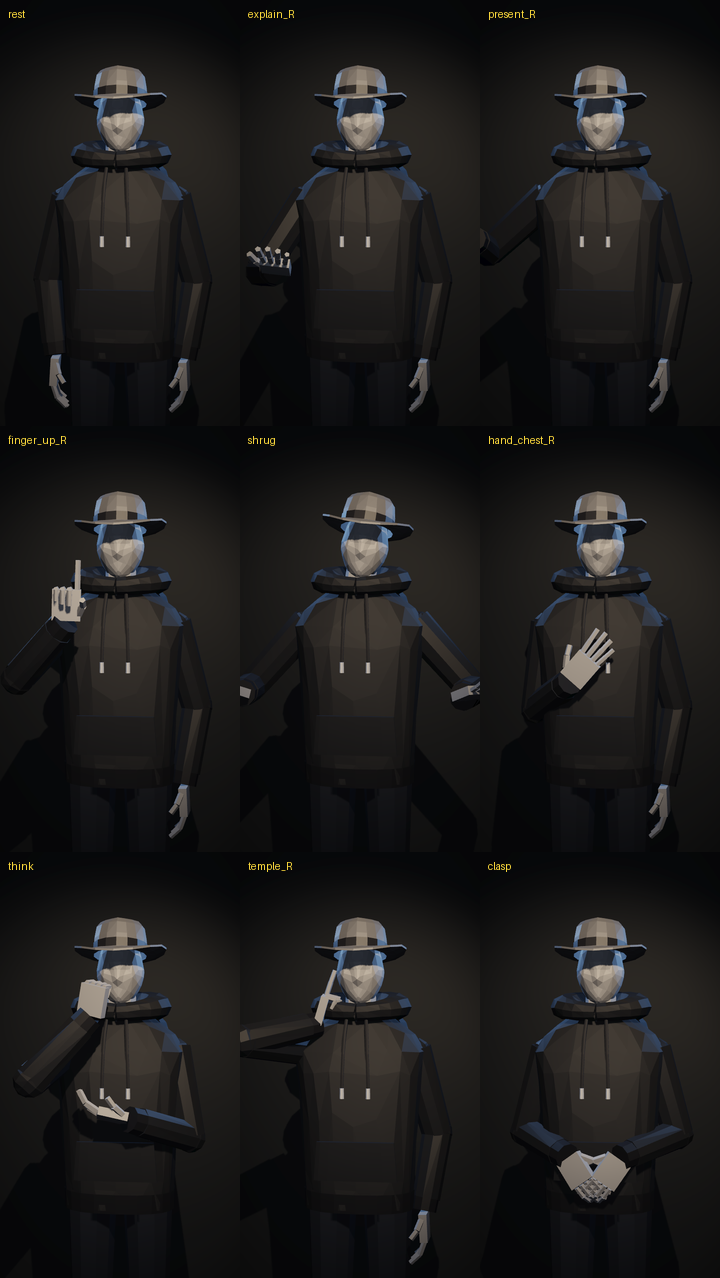
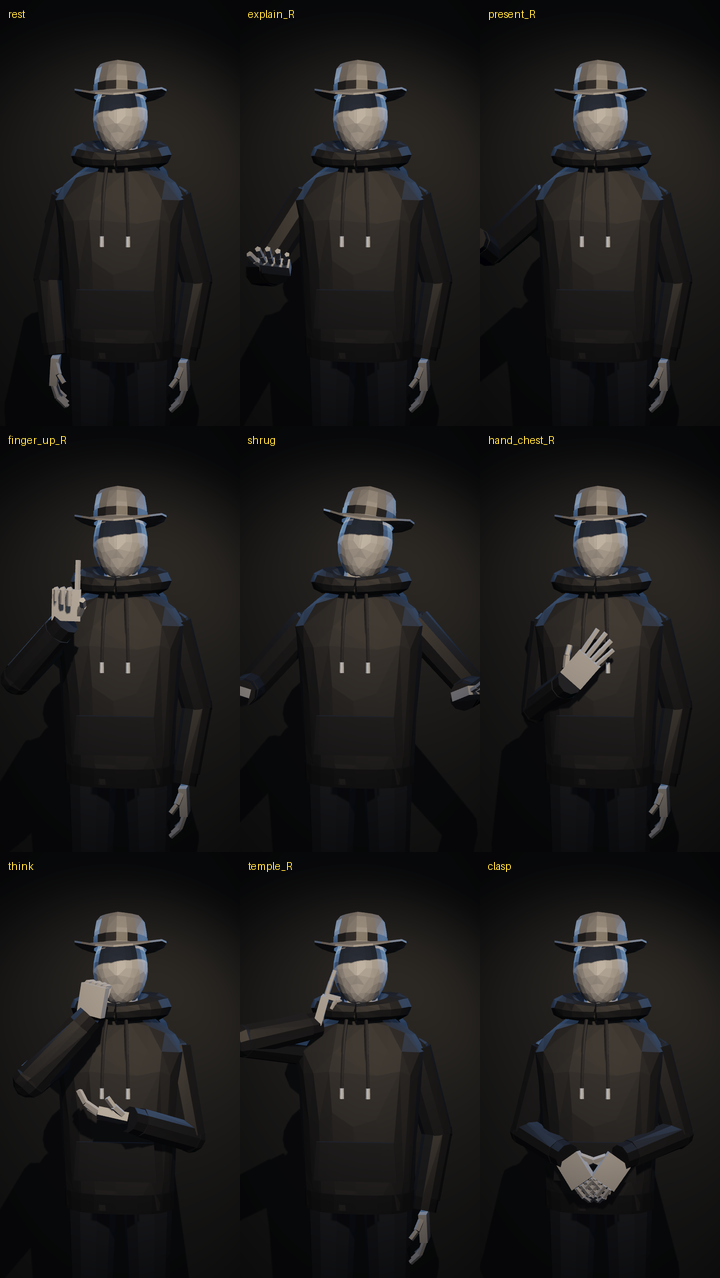
hooded-man: bigger, calmer face; front light on his face
GJ's notes: the face looked really small, and angry.
- Head 15% bigger (17.6 cm wide), fuller jaw, plain face with a soft nose
  ridge; removed the eye-socket dents and brow ridge, which rendered as
  dark slanted facets that read as a frown. Hat sits higher, less tilt.
- dead-internet-theory: FACE_KEY, a narrow front spot that lights his face
  under the brim; thumbnails re-shot from the episode's angle.
- Previews redrawn; repo rebuild verified (assets identical, who/debunk
  scenes byte-identical to the delivered ones).

Claude-Session: https://claude.ai/code/session_01XgkZbj7ikTSTMJv7mLdgiD

diff --git a/kids-songs/hooded-man/build_man.py b/kids-songs/hooded-man/build_man.py
@@ -15,42 +15,33 @@ from rig import HIPS, HEAD, SHOULDER, UPPER, FORE, COLORS, HAND_POSES
 
 # ------------------------------------------------------------------ settings
 HEAD_RES = (52, 30)          # UV-sphere resolution before decimation
-HEAD_RATIO = 0.13            # decimate ratio (about 400 faces)
-SKULL_C = np.array([0.0, 0.004, 0.096])     # skull centre in head-local coords
-SKULL_R = np.array([0.077, 0.097, 0.117])   # half sizes x (width), y (depth), z (height)
-HAT_TILT = math.radians(-7)  # forward tilt of the hat (about X)
-HAT_BASE = np.array([0.0, -0.004, 0.152])
+HEAD_RATIO = 0.17            # decimate ratio (about 520 faces)
+SKULL_C = np.array([0.0, 0.004, 0.104])     # skull centre in head-local coords
+SKULL_R = np.array([0.088, 0.104, 0.126])   # half sizes x (width), y (depth), z (height)
+HAT_TILT = math.radians(-4)  # forward tilt of the hat (about X)
+HAT_BASE = np.array([0.0, -0.002, 0.172])
 TORSO_RATIO = 0.55
 
 
 def head_mesh():
+    """A calm mannequin head: egg-shaped skull, flat broad face, soft nose ridge, small chin. No brow ridge or eye
+    sockets (they rendered as dark slanted facets that read as an angry frown)."""
     s = uvsphere(*HEAD_RES)
     d = s.v / np.linalg.norm(s.v, axis=1, keepdims=True)
     x, y, z = d.T
     X, Y, Z = x * SKULL_R[0], y * SKULL_R[1], z * SKULL_R[2]
     lo = np.clip(-z, 0, 1)
-    X = X * (1 - 0.30 * lo ** 1.6)
-    Y = np.where(y > 0, Y * (1 - 0.40 * lo ** 1.4), Y * (1 - 0.10 * lo))
+    X = X * (1 - 0.17 * lo ** 1.8)
+    Y = np.where(y > 0, Y * (1 - 0.32 * lo ** 1.4), Y * (1 - 0.06 * lo))
     Y = np.where(y < 0, Y * 0.90, Y)
     front = np.clip(-y, 0, 1)
-    chin = np.exp(-(x / 0.30) ** 2 - ((z + 0.80) / 0.16) ** 2) * front
-    Y = Y - 0.010 * chin
-    t = np.clip((0.10 - z) / 0.40, 0, 1)
-    below = np.clip((-0.30 - z) / 0.07, 0, 1)
-    prof = t ** 1.3 * (1 - below) ** 2
-    nose = prof * np.exp(-(x / (0.13 + 0.07 * t)) ** 2) * front ** 4
-    Y = Y - 0.017 * nose
-    brow = np.exp(-((z - 0.17) / 0.09) ** 2) * np.exp(-(x / 0.55) ** 2) * front ** 3
-    Y = Y - 0.007 * brow
-    for sx in (-1, 1):
-        eye = np.exp(-((x - sx * 0.33) / 0.15) ** 2 - ((z - 0.03) / 0.10) ** 2) * front ** 2
-        Y = Y + 0.010 * eye
-        cheek = np.exp(-((x - sx * 0.60) / 0.17) ** 2 - ((z + 0.16) / 0.15) ** 2) * front
-        X = X + sx * 0.004 * cheek; Y = Y - 0.004 * cheek
-        temple = np.exp(-((x - sx * 0.85) / 0.15) ** 2 - ((z - 0.25) / 0.2) ** 2)
-        X = X - sx * 0.004 * temple
-    mouth = np.exp(-(x / 0.25) ** 2 - ((z + 0.50) / 0.07) ** 2) * front ** 4
-    Y = Y + 0.004 * mouth
+    chin = np.exp(-(x / 0.35) ** 2 - ((z + 0.80) / 0.18) ** 2) * front
+    Y = Y - 0.006 * chin
+    t = np.clip((0.06 - z) / 0.34, 0, 1)
+    below = np.clip((-0.28 - z) / 0.08, 0, 1)
+    prof = t ** 1.5 * (1 - below) ** 2
+    nose = prof * np.exp(-(x / 0.16) ** 2) * front ** 4
+    Y = Y - 0.012 * nose
     m = M(np.stack([X, Y, Z], 1) + SKULL_C, s.f)
     return decimate(m, HEAD_RATIO, True, 'head')
 
@@ -203,7 +194,7 @@ def legs_meshes():
 def build():
     h = head_mesh()
     add('head', h, COLORS['skin'])
-    neck = cyl(0.052, 0.049, 0.15, 8, -0.10)
+    neck = cyl(0.057, 0.054, 0.15, 8, -0.10)
     add('neck', neck.moved((0, 0.012, 0)), COLORS['skin'])
     crown, band, brim = hat_meshes()
     add('hat_crown', crown, COLORS['hat']); add('hat_band', band, COLORS['band']); add('hat_brim', brim, COLORS['hat'])

diff --git a/kids-songs/dead-internet-theory/shots.py b/kids-songs/dead-internet-theory/shots.py
@@ -84,6 +84,9 @@ def spot(pos, target, **k):
     return dict(type='spot', pos=tuple(pos), dir=tuple(np.subtract(target, pos)), **k)
 
 
+FACE_KEY = 1.4                  # soft front light on his face, under the hat brim
+
+
 def room_lights(t, bulb=1.0, swing=0.0, crt=1.0):
     lx, ly, lz = L.LAMP
     sw = swing * math.sin(2 * math.pi * 0.35 * t)
@@ -95,7 +98,8 @@ def room_lights(t, bulb=1.0, swing=0.0, crt=1.0):
             spot((-0.85, 0.95, 2.15), (0, 0, 1.55), col=(0.30, 0.52, 1.0), energy=1.5, outer=28, inner=14, range=5, spec=2.0),
             spot((0.85, 0.9, 2.05), (0, 0, 1.5), col=(0.30, 0.52, 1.0), energy=1.2, outer=28, inner=14, range=5, spec=2.0),
             dict(type='point', pos=tuple(CRT_C + CRT_N * 0.35), col=(0.45, 0.85, 0.8), energy=0.07 * crt, range=2.2, spec=0.3),
-            dict(type='point', pos=(0.0, -2.2, 1.6), col=(0.75, 0.82, 1.0), energy=0.12, range=6, spec=0.0)]
+            dict(type='point', pos=(0.0, -2.2, 1.6), col=(0.75, 0.82, 1.0), energy=0.12, range=6, spec=0.0),
+            spot((0.30, -2.0, 1.95), (0, 0, 1.68), col=(1.0, 0.9, 0.8), energy=FACE_KEY, outer=13, inner=6, range=6, spec=0.2)]
 
 
 ROOM_ENV = dict(amb_top=(0.012, 0.014, 0.02), amb_bot=(0.003, 0.003, 0.004), fog_col=(0.006, 0.007, 0.011), fog_d=0.05, bg=(0, 0, 0))

diff --git a/kids-songs/dead-internet-theory/thumb.py b/kids-songs/dead-internet-theory/thumb.py
@@ -9,8 +9,8 @@ from poses import G
 R, tl = mv.setup()
 shots.GLOBAL['env'] = None
 variants = {
-    'a': dict(c=cam((0.06, -1.18, 1.52), (0, 0, 1.62), 31, 0, 0), keys=[(0, dict(head=(-3, 4, -5)))], glitch=0.0),
-    'b': dict(c=cam((0.06, -1.18, 1.52), (0, 0, 1.62), 31, 0, 0), keys=[(0, dict(head=(-3, 4, -5)))], glitch=0.22),
+    'a': dict(c=cam((0.16, -1.30, 1.66), (0, 0, 1.60), 31, 0, 0), keys=[(0, dict(head=(2, 6, -4)))], glitch=0.0),
+    'b': dict(c=cam((0.16, -1.30, 1.66), (0, 0, 1.60), 31, 0, 0), keys=[(0, dict(head=(2, 6, -4)))], glitch=0.16),
     'c': dict(c=cam((0.55, -2.45, 1.40), (0.05, 0.6, 1.62), 44, 0, 0), keys=[(0, dict(G['present_R'], head=(-2, -6, 0)))], glitch=0.0),
 }
 for k, v in variants.items():

diff --git a/kids-songs/hooded-man/README.md b/kids-songs/hooded-man/README.md
@@ -8,7 +8,7 @@ The low-poly hooded man from The Dead Internet Theory: a faceless faceted manneq
 ![preview](preview.png)
 
 **Used in:** every shot with the man in The Dead Internet Theory (Story Time with Kenji, Nov 2026, `../dead-internet-theory`).
-- **Verified:** `pose_sheet.py` rebuilt the 26 parts (4,407 triangles) from this folder, byte-identical to the man in the episode's `assets.npz`, and drew `preview.png`.
+- **Verified:** `pose_sheet.py` rebuilt the 26 parts (4,529 triangles) from this folder, byte-identical to the man in the episode's `assets.npz`, and drew `preview.png`.
 
 ## Files
 - `rig.py`: the rest pose (hip, head and shoulder pivots, arm lengths), the colours, and the hand poses as finger curl angles.
@@ -48,6 +48,11 @@ items = man.items(pose)                                   # + your set's items -
 - **Glitch:** `explode(parts['head'], a)` for each name in `man.HEAD_PARTS`, then `renderer.set_dynamic(name + '_x', ...)` and `items(pose, glitch_head={name: name + '_x'})`.
 
 ## Gotchas
+- **His face (GJ's notes on the first version):**
+  - Eye-socket dents and a brow ridge rendered as dark, slanted facets under the brim, which read as an angry frown.
+  - A 15 cm-wide skull under the wide brim and the big hood ring read as a really small face.
+  - The head is now 17.6 cm wide, with a fuller jaw, a plain face, a soft nose ridge and a slightly higher hat.
+  - Keep the face plain, and light it from the front (the episode's `FACE_KEY` spot) so the brim shadow doesn't hide its top half.
 - **Portrait frames are narrow.** At 1.2 m with a 30° lens, the frame is only about 0.36 m wide. A hand held out at arm's length leaves it, so keep gestures near the body's centre line for close shots.
 - **Pointing straight at the camera** reads as a claw, because the finger is foreshortened. The episode switched that beat to a temple tap.
 - **The hat brim shadows the face** when the key light is more than about 45° above it. That's the noir look; a weak front fill keeps the facets readable.

diff --git a/kids-songs/dead-internet-theory/README.md b/kids-songs/dead-internet-theory/README.md
@@ -61,6 +61,7 @@ python3 thumb.py                            # build/thumb_a.png, thumb_b.png, th
 - **Phone screens all showed one cell** until the `cellf`, `tt` and `rate` uniforms were actually set. A dropped uniform fails silently.
 - **Dust near the camera** turned into huge bright blobs in close-ups. Motes within about 1 m of the camera now fade out.
 - **Narrow frame:** in close-ups a hand at arm's length is outside the portrait frame. "Ask yourself who wrote it" became a temple tap, and the reveal's hat tip became a small shrug.
+- **His face:** the lamp's brim shadow hid the top half of the face, so a narrow spot from in front (`FACE_KEY` = 1.4 in `shots.py`, 13° cone) lights it. It's narrow enough to stay off the board.
 - **Exposure:** the lamp is a 1.55-energy spot about 1 m above his head. Above about 2.5 the black hoodie reads grey and the hat blows out.
 - **Caption heights** are set per scene in `shots.SCENES`. The chart uses y = 1230 so the HUMANS / BOTS labels stay visible.
 - **Facts** were checked on Nov 28, 2026; see `style.json`. The script frames the theory as a theory and says researchers don't support the full version.
